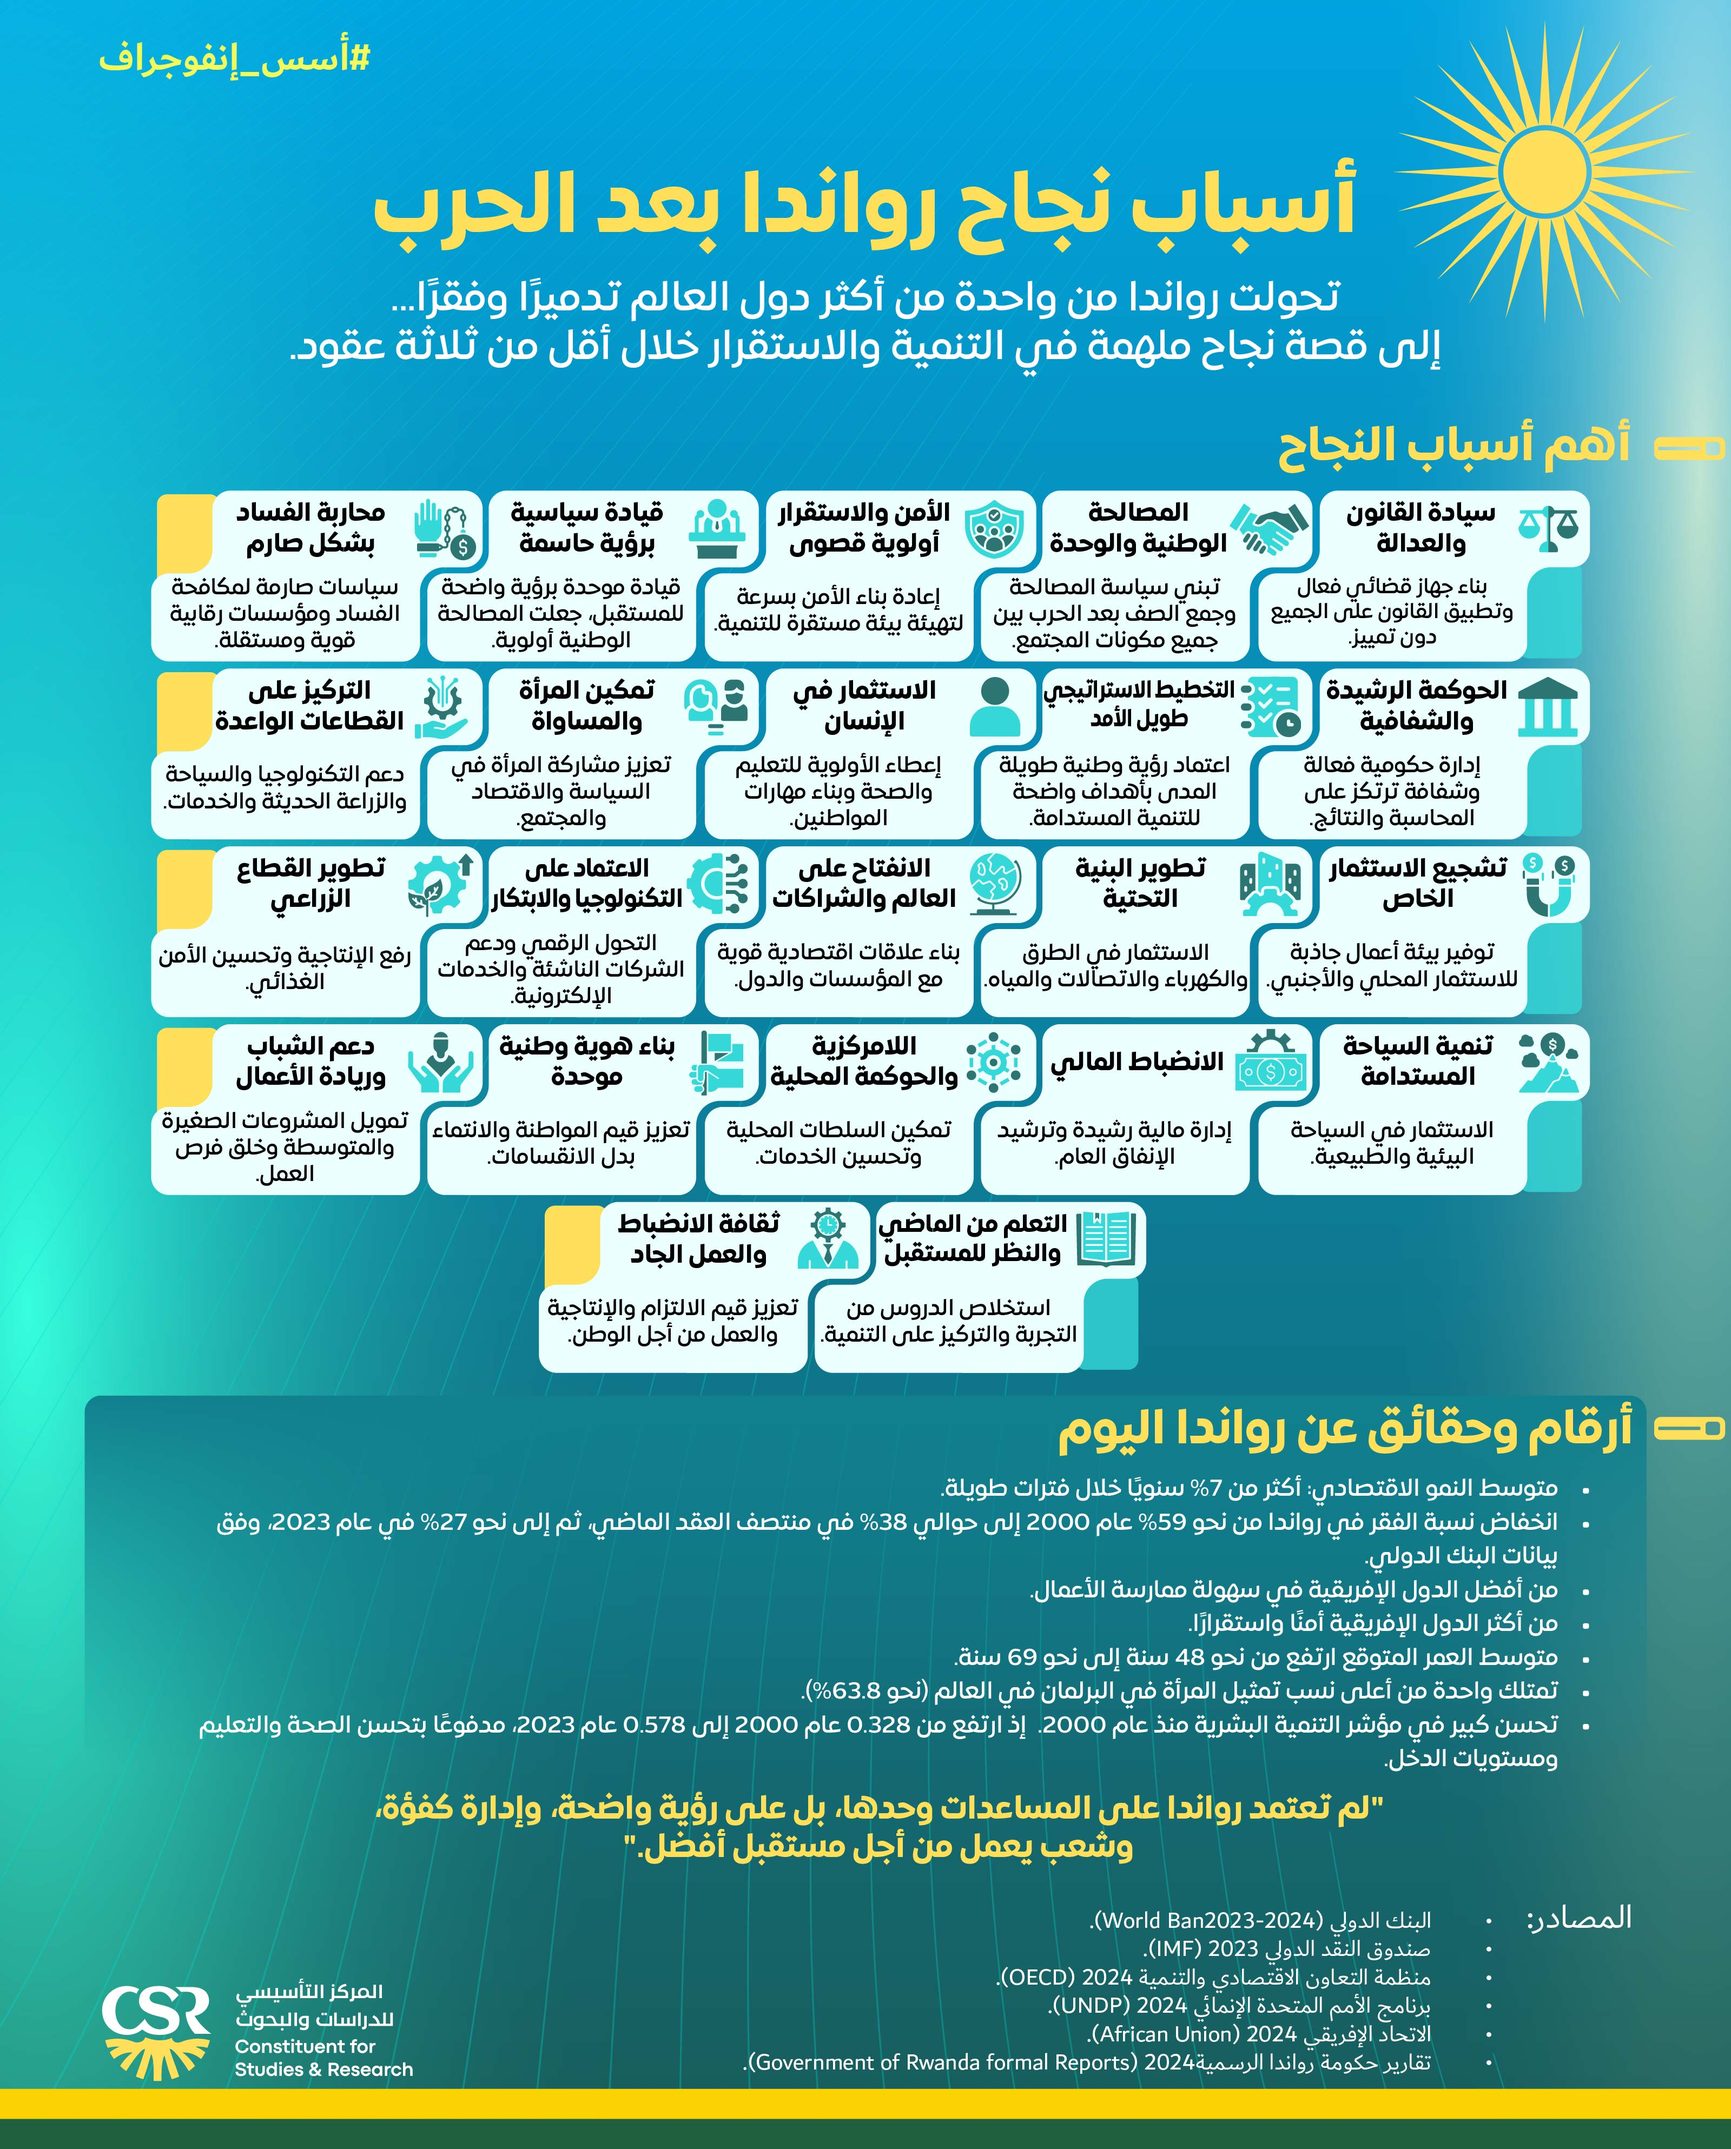
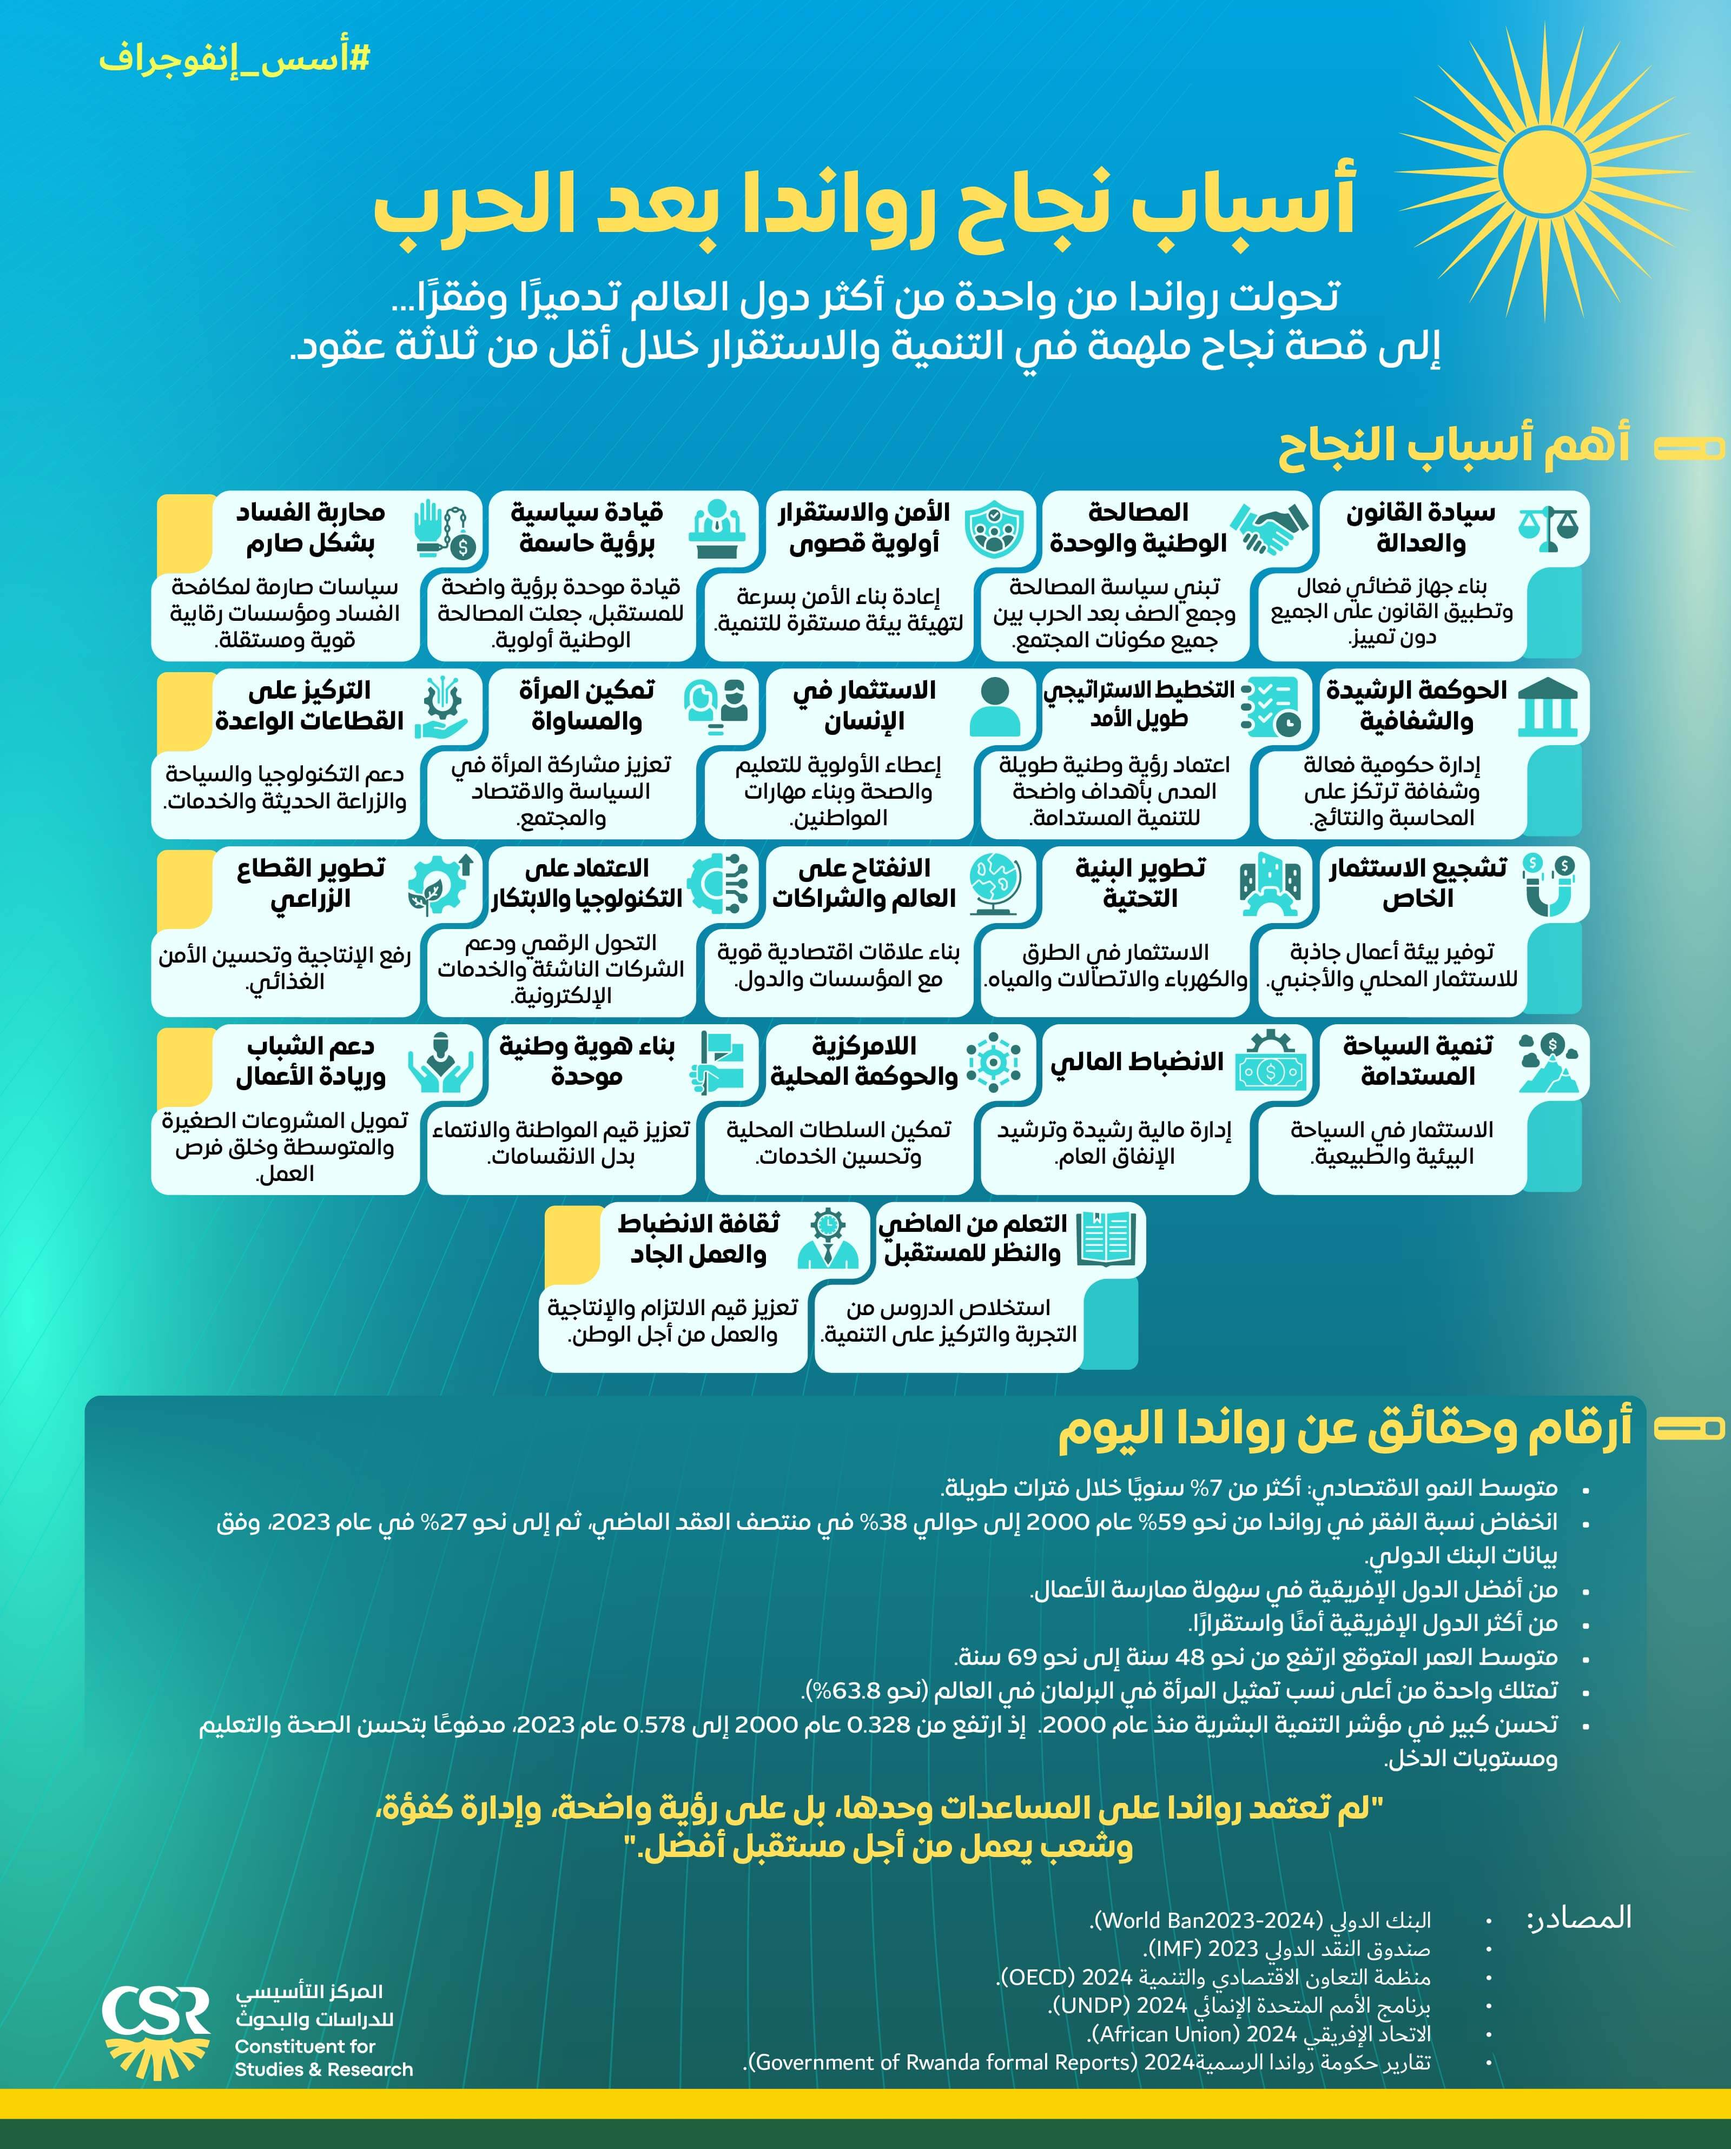
fix: modify the images.

Changed region(s): [[0.8438, 0.0624, 0.875, 0.0936]]

diff --git a/templates/pages/index.html b/templates/pages/index.html
@@ -721,12 +721,12 @@
         <div class="swiper-wrapper">
             <div class="swiper-slide">
                 <a href="{% url 'infograph_detail' 'reasons_for_Rwanda_success_after_war' %}">
-                    <img src="{% static 'imgs/reasons_for_Rwanda_success_after_war.jpeg' %}" alt="">
+                    <img src="{% static 'imgs/reasons_for_Rwanda_success_after_war-index.jpg' %}" alt="">
                 </a>
             </div>
             <div class="swiper-slide">
                 <a href="{% url 'infograph_detail' 'rich_country_and_poor_country' %}">
-                    <img src="{% static 'imgs/rich_country_and_poor_country.jpeg' %}" alt="">
+                    <img src="{% static 'imgs/rich_country_and_poor_country-index.jpg' %}" alt="">
                 </a>
             </div>
             <div class="swiper-slide">
